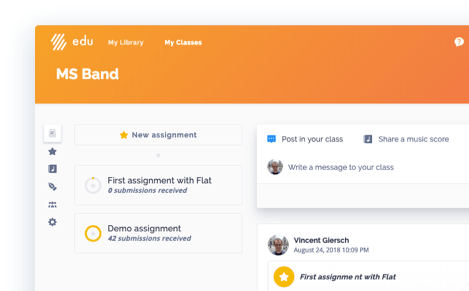
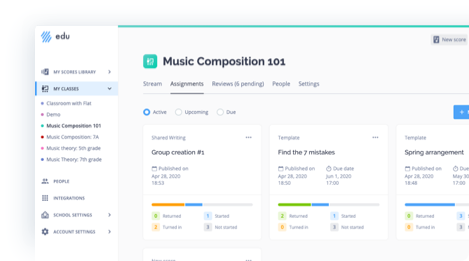
doc: start reworking edu docs with create class

diff --git a/docs/en/edu/tutorial.html b/docs/en/edu/tutorial.html
@@ -16,21 +16,21 @@ section</a>.</p>
 </div>
 
 <a href="/help/en/education/create-new-class.html" class="help-card-tuto">
-  <div class="card-title"><img src="/help/assets/img/edu/icon-people.svg" alt="Flat for Edu"> Step 1 - Create your first class</div>
+  <div class="card-title"><img src="/help/assets/img/edu/icon-classes.svg" alt="Flat for Edu"> Step 1 - Create your first class</div>
   <div class="card-description">Creating a class will make it much easier to organize and share activities of any kind with your students.</div>
   <div class="btn-white-gradient"><img src="/help/assets/img/edu/icon-read.svg" alt="Read">Read the tutorial</div>
   <img src="/help/assets/img/edu/tuto-card-create-class.png" alt="Create a new class on Flat" class="screen">
 </a>
 
 <a href="/help/en/education/invite-students.html" class="help-card-tuto">
-  <div class="card-title"><img src="/help/assets/img/edu/icon-people.svg" alt="Flat for Edu">Step 2 - Invite students to your class</div>
+  <div class="card-title"><img src="/help/assets/img/edu/icon-classes.svg" alt="Flat for Edu">Step 2 - Invite students to your class</div>
   <div class="card-description">In this tutorial, discover how to invite your students to your class using class codes, and manually creating students accounts if necessary.</div>
   <div class="btn-white-gradient"><img src="/help/assets/img/edu/icon-read.svg" alt="Read">Read the tutorial</div>
   <img src="/help/assets/img/edu/tuto-card-invite-students.png" alt="Invite students" class="screen">
 </a>
 
 <a href="/help/en/education/assignments-activities.html" class="help-card-tuto">
-  <div class="card-title"><img src="/help/assets/img/edu/icon-assignment.svg" alt="Flat for Edu"> Step 3 - Create your first activity</div>
+  <div class="card-title"><img src="/help/assets/img/edu/icon-classes.svg" alt="Flat for Edu"> Step 3 - Create your first activity</div>
   <div class="card-description">In this tutorial, discover the different kinds of activities and assignments you can create with Flat.</div>
   <div class="btn-white-gradient"><img src="/help/assets/img/edu/icon-read.svg" alt="Read">Read the tutorial</div>
   <img src="/help/assets/img/edu/tuto-card-create-activity.png" alt="Create activity" class="screen">

diff --git a/docs/es-es/edu/tutorial.html b/docs/es-es/edu/tutorial.html
@@ -16,21 +16,21 @@ section</a>.</p>
 </div>
 
 <a href="/help/en/education/create-new-class.html" class="help-card-tuto">
-  <div class="card-title"><img src="/help/assets/img/edu/icon-people.svg" alt="Flat for Edu"> Step 1 - Create your first class</div>
+  <div class="card-title"><img src="/help/assets/img/edu/icon-classes.svg" alt="Flat for Edu"> Step 1 - Create your first class</div>
   <div class="card-description">Creating a class will make it much easier to organize and share activities of any kind with your students.</div>
   <div class="btn-white-gradient"><img src="/help/assets/img/edu/icon-read.svg" alt="Read">Read the tutorial</div>
   <img src="/help/assets/img/edu/tuto-card-create-class.png" alt="Create a new class on Flat" class="screen">
 </a>
 
 <a href="/help/en/education/invite-students.html" class="help-card-tuto">
-  <div class="card-title"><img src="/help/assets/img/edu/icon-people.svg" alt="Flat for Edu">Step 2 - Invite students to your class</div>
+  <div class="card-title"><img src="/help/assets/img/edu/icon-classes.svg" alt="Flat for Edu">Step 2 - Invite students to your class</div>
   <div class="card-description">In this tutorial, discover how to invite your students to your class using class codes, and manually creating students accounts if necessary.</div>
   <div class="btn-white-gradient"><img src="/help/assets/img/edu/icon-read.svg" alt="Read">Read the tutorial</div>
   <img src="/help/assets/img/edu/tuto-card-invite-students.png" alt="Invite students" class="screen">
 </a>
 
 <a href="/help/en/education/assignments-activities.html" class="help-card-tuto">
-  <div class="card-title"><img src="/help/assets/img/edu/icon-assignment.svg" alt="Flat for Edu"> Step 3 - Create your first activity</div>
+  <div class="card-title"><img src="/help/assets/img/edu/icon-classes.svg" alt="Flat for Edu"> Step 3 - Create your first activity</div>
   <div class="card-description">In this tutorial, discover the different kinds of activities and assignments you can create with Flat.</div>
   <div class="btn-white-gradient"><img src="/help/assets/img/edu/icon-read.svg" alt="Read">Read the tutorial</div>
   <img src="/help/assets/img/edu/tuto-card-create-activity.png" alt="Create activity" class="screen">

diff --git a/docs/en/edu/index.html b/docs/en/edu/index.html
@@ -24,7 +24,7 @@ layout: doc-unwrapped
 </a>
 
 <a href="/help/en/education/flat-for-education-tutorial.html" class="help-card-tuto">
-  <div class="card-title"><img src="/help/assets/img/edu/icon-people.svg" alt="Flat for Edu"> Step by step Tutorial</div>
+  <div class="card-title"><img src="/help/assets/img/edu/icon-classes.svg" alt="Flat for Edu"> Step by step Tutorial</div>
   <div class="card-description">Learn how to use Flat for Education from zero: create your first class, invite your students and create your first activity using Flat.</div>
   <div class="btn-white-gradient"><img src="/help/assets/img/edu/icon-read.svg" alt="Read"> Read the tutorial</div>
   <img src="/help/assets/img/edu/tuto-card-create-activity.png" alt="Step by step tutorial" class="screen">

diff --git a/docs/en/edu/create-new-class.md b/docs/en/edu/create-new-class.md
@@ -1,0 +1,67 @@
+---
+title: Create a new class on Flat for Education
+description: Get started with Flat for Education, consult our help and info regarding our education product usage.
+nav: edu
+pid: new-class
+permalink: en/education/create-new-class.html
+nexttext: Activities and Assignments
+nexturl: en/education/assignments-activities.html
+---
+
+To create a new class with Flat, [create a Flat for Education account as a teacher](https://flat.io/edu/signup). If your school is already using Flat for Education, [ask them to send you an invitation to join your school](/help/en/education/invite-teachers.html).
+
+## 1. Open "My Classes"
+
+Once you are logged in Flat for Education, click on the **tab "My classes"** on the left of your screen on any dashboard page.
+
+![classes tab](/help/assets/img/edu/classes-tab.png)
+
+Then, click on the button **"Create a new class"** in the center of your screen.
+
+![create a new class](/help/assets/img/edu/create-class.png)
+
+### What is the purpose of a class?
+
+Creating a class will make it much easier to organize and share activities of any kind with your students.
+We have a [dedicated section]() about the different kinds of activities you can create and assign to your classroom.
+Most of the time, we advise following the same organization as you have in your "real" classroom.
+
+## 2. Name your new class
+
+You now have a new page displayed where you can create your new class. There are multiple ways to do it:
+
+* **Create your class on Flat**: choose a name and press "Create on Flat for Education".
+* **[Use Google Classroom](/help/en/education/google-classroom/setup-course.html)**
+* **[Use Microsoft Teams](/help/en/education/microsoft-teams/setup-course.html)**
+* **[Use Canvas](/help/en/education/canvas-lms/setup-configuration.html)**
+* **[Use Schoology](/help/en/education/schoology/)**
+* ... or any other LMS using LTI.
+
+Connecting a third-party app or LMS to Flat for Education will make the setup much easier for you: we will automatically create and update accounts for your students from an external course from one of these apps or LMS.
+
+![Choose a name for your new class](/help/assets/img/edu/create-class-landing.png)
+
+Once your class is created, you will see multiple tabs available in your class navigation:
+
+* **Stream**: Use the *stream* to quickly share content with your students, especially music scores from your account in read-only.
+* **Assignments**: Use the *assignments* feature to create any activities for your students using Flat. We got a more [dedicated help page](/help/en/education/assignments-activities.html) to learn more about assignments.
+* **People**: Use the *class people* page to add, invite and manage students and teachers that are part of your class.
+* **Settings**: Use the *class settings* to rename, customize, archive, and delete your class.
+
+![Class navgation](/help/assets/img/edu/class-empty-tabs.png)
+
+## 3. Add your students to your new class
+
+To add or invite students to your class, open the **People** tab in your class, then click on the **Add People** button.
+
+![Class People](/help/assets/img/edu/class-people-tab-empty.png)
+
+From there, you will have several options to add students or teachers to your class:
+
+![Invite students](/help/assets/img/edu/class-add-people-manual.png)
+
+We wrote a dedicated article about [everything you need to know about your different options to invite people into your classroom, this one is available right here](/help/en/education/invite-students.html).
+
+### What's next?
+
+Now that your class is full of students willing to learn music we will [give more details about all the different activities that you can create](/help/en/education/assignments-activities.html).

diff --git a/docs/es-es/edu/create-new-class.md b/docs/es-es/edu/create-new-class.md
@@ -14,11 +14,11 @@ Para crear una nueva classe con Flat, [crear una cuenta gratis de EDU sobre nues
 
 Una vez que se hayáis conectado en Flat, hagáis clic en la pestaña "Clases" arriba a la izquierda de vuestra pantalla en cualquier pagina del tablero.
 
-![pestaña clases](/help/assets/img/createaclass/classestab.PNG)
+![pestaña clases](/help/assets/img/edu/classes-tab.png)
 
 Después, hagáis clic en **"Crear una nueva clase"** en el centro de la pantalla.
 
-![crear una nueva clase](/help/assets/img/createaclass/createanewclass.PNG)
+![crear una nueva clase](/help/assets/img/edu/create-class.png)
 
 ### Cuál es el propósito de una clase ?
 
@@ -31,7 +31,7 @@ Ahora, teneis un nueva página que se abrió, dónde podéis crear y gestionar v
   * **Crear vuestra clase en Flat**
   * **[Utilizar Google Classroom](/help/en/education/google-classroom/setup-course.html)**
 
-![Elegir un nombre para vuestra clase](/help/assets/img/createaclass/chooseanameforyournewclass.PNG)
+![Elegir un nombre para vuestra clase](/help/assets/img/edu/create-class-landing.png)
 
 
 Si utiliza el usuario de Google Classromm, [podéis seguir este tutoríal dedicado para eso](/help/en/education/google-classroom/setup-course.html).
@@ -41,7 +41,7 @@ Si utiliza el usuario de Google Classromm, [podéis seguir este tutoríal dedica
 
 Una vez que hayáis validado el nombre de vuestra clase, podráis invitar o agregar alumnos en ella.
 
-![Invitar a vuestros alumnos](/help/assets/img/createaclass/addstudents.png)
+![Invitar a vuestros alumnos](/help/assets/img/edu/class-add-people-manual.png)
 
 Habíamos escrito un articulo dedicado a [todo lo que necesita saber sobre vuestras diferentes opciones para invitar alumnos a vuestra sala de clase, esta disponible ahí](/help/es-es/education/agrega-alumnos.html).
 

diff --git a/docs/es-ar/edu/create-new-class.md b/docs/es-ar/edu/create-new-class.md
@@ -14,11 +14,11 @@ Para crear una nueva classe con Flat, [crear una cuenta gratis de EDU sobre nues
 
 Una vez que se haya conectado en Flat, haga click en la pestaña "Clases" arriba a la izquierda de su pantalla en cualquier pagina del tablero.
 
-![pestaña clases](/help/assets/img/createaclass/classestab.PNG)
+![pestaña clases](/help/assets/img/edu/classes-tab.png)
 
 Después, haga click en **"Crear una nueva clase"** en el centro de la pantalla.
 
-![crear una nueva clase](/help/assets/img/createaclass/createanewclass.PNG)
+![crear una nueva clase](/help/assets/img/edu/create-class.png)
 
 ### Cuál es el propósito de una clase ?
 
@@ -31,7 +31,7 @@ Ahora, tiene un nueva página que se abrió, dónde puede crear y gestionar su c
   * **Crear su clase en Flat**
   * **[Utilizar Google Classroom](/help/en/education/google-classroom/setup-course.html)** => 
 
-![Elegir un nombre para su clase](/help/assets/img/createaclass/chooseanameforyournewclass.PNG)
+![Elegir un nombre para su clase](/help/assets/img/edu/create-class-landing.png)
 
 
 Si utiliza el usuario de Google Classromm, [puede seguir este tutoríal dedicado para eso](/help/en/education/google-classroom/setup-course.html).
@@ -41,7 +41,7 @@ Si utiliza el usuario de Google Classromm, [puede seguir este tutoríal dedicado
 
 Una vez que haya validado el nombre de su clase, podrá invitar o agregar alumnos en ella.
 
-![Invitar a sus alumnos](/help/assets/img/createaclass/addstudents.png)
+![Invitar a sus alumnos](/help/assets/img/edu/class-add-people-manual.png)
 
 Habíamos escrito un articulo dedicado a [todo lo que necesita saber sobre sus diferentes opciones para invitar alumnos a su sala de clase, esta disponible ahí](/help/es-ar/education/agrega-alumnos.html).
 

diff --git a/docs/fr/edu/create-new-class.md b/docs/fr/edu/create-new-class.md
@@ -14,11 +14,11 @@ Avant de pourvoir créer votre première classe sur Flat for Education, vous dev
 
 Une fois que vous êtes connecté sur Flat, cliquez sur le bouton **Classes** situé sur la partie gauche de votre dashboard.
 
-![classes tab](/help/assets/img/createaclass/classestab.PNG)
+![classes tab](/help/assets/img/edu/classes-tab.png)
 
 Cliquez sur le boutton, **Créer une nouvelle classe** au centre de votre écran.
 
-![create a new class](/help/assets/img/createaclass/createanewclass.PNG)
+![create a new class](/help/assets/img/edu/create-class.png)
 
 ### Quelle est le but d'une classe sur la plateforme?
 
@@ -30,7 +30,7 @@ Vous êtes maintenant dans le processus de création de votre nouvelle classe. V
   * **la créer directement sur Flat for Education**
   * **[Utiliser Google Classroom](/help/en/education/google-classroom/setup-course.html)**
 
-![choose a name for your new class](/help/assets/img/createaclass/chooseanameforyournewclass.PNG)
+![choose a name for your new class](/help/assets/img/edu/create-class-landing.png)
 
 si vous etes un utilisateur de Google Classroom, [vous pouvez suivre cette section dédiée](/help/en/education/google-classroom/setup-course.html).
 
@@ -38,7 +38,7 @@ si vous etes un utilisateur de Google Classroom, [vous pouvez suivre cette secti
 
 une fois votre classe nommée, vous pourrez inviter des etudiants à la rejoindre.
 
-![Invite students](/help/assets/img/createaclass/addstudents.png)
+![Invite students](/help/assets/img/edu/class-add-people-manual.png)
 
 Si vous souhaitez les inviter plus tard, nous avons rediger une section dédié a [l'invitation et l'organisation des etudiants dans des classes existantes](/help/fr/education/inviter-des-etudiants.html).
 

diff --git a/docs/en/edu/google-classroom/create-class.md b/docs/en/edu/google-classroom/create-class.md
@@ -18,11 +18,11 @@ In a couple of clicks, you will have your first group ready, and be able to crea
 
 Once you are [logged in Flat](https://flat.io/edu), click on the **tab "Classes"** on the top left of your screen on any dashboard page.
 
-![classes tab](/help/assets/img/createaclass/classestab.PNG)
+![classes tab](/help/assets/img/edu/classes-tab.png)
 
 Then, click on the button **"Create a new class"** in the center of your screen.
 
-![create a new class](/help/assets/img/createaclass/createanewclass.PNG)
+![create a new class](/help/assets/img/edu/create-class.png)
 
 ## 2. Choose "Create using Google Classroom."
 
